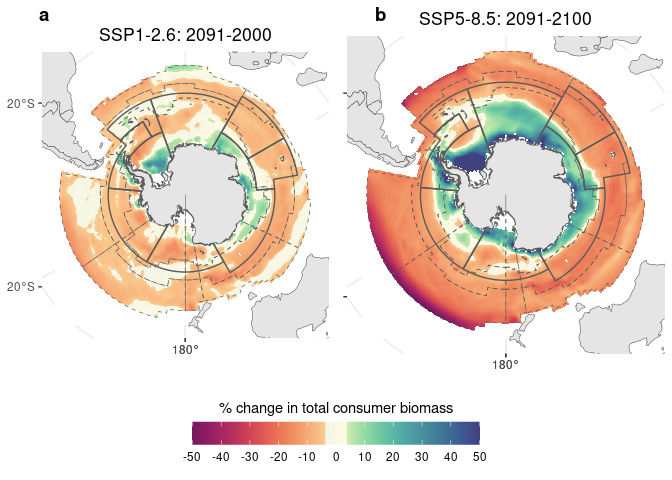
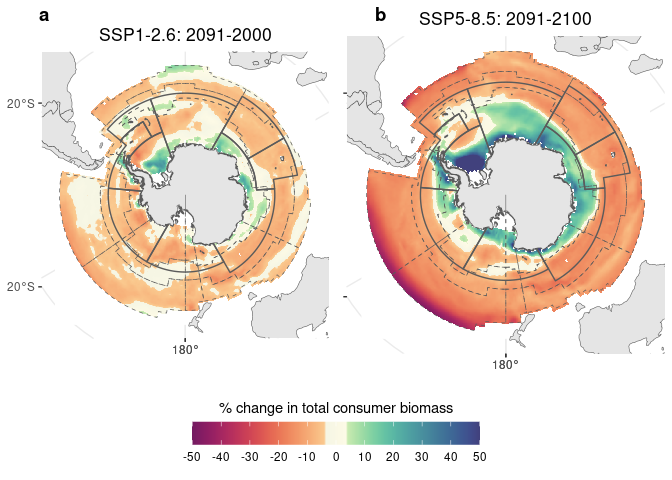
saving different versions of individual plots for further processing

diff --git a/scripts/Fig2_Mapping_changes_SO.md b/scripts/Fig2_Mapping_changes_SO.md
@@ -111,7 +111,7 @@ global_files <- list.files(base_folder, full.names = T, recursive = T) |>
   str_subset("apecosm_ipsl|boats|dbpm_ipsl|ecotroph|macroecological|zoomss") |> 
   str_subset("nat_default") |> 
   #Removing "picontrol" experiment
-  str_subset("picontrol", negate = T)
+  str_subset("picontrol|regridded", negate = T)
 ```
 
 ## Calculating percentage change in fish biomass estimates from global FishMIP models
@@ -144,13 +144,16 @@ for(f in global_files){
     group_by(lat, lon, group) |> 
     summarise(mean_bio = mean(tcb, na.rm = T)) |> 
     ungroup() |> 
-    #Add scenario to data frame
-    mutate(scenario = scenario,
-           #Add name of model
-           mem = mem) |> 
+    #Add name of model
+    mutate(mem = mem) |> 
     #Split ecosystem model name from ESM name
     separate_wider_delim(mem, delim = "_", names = c("mem", "esm"))
     
+  if(str_detect(mem, "dbpm|zoomss_ipsl")){
+    df <- df |> 
+      #Move grid by 0.5 degrees in DBPM and ZOOMSS datasets
+      mutate(lon = lon+0.5)
+  }
   
   #Path to save file
   f_out <- file.path(out_folder,
@@ -173,8 +176,6 @@ global_files <- list.files(out_folder, "gridded_mean",
 #Getting a list of models
 members <- basename(global_files) |> 
   str_extract("^(.*)_gridded", group = 1) |> 
-  #Excluding DBPM and ZOOMS IPSL because of different grid
-  str_subset("dbpm|zoomss_ipsl", negate = T) |> 
   unique()
 
 #Loading data for each model
@@ -358,7 +359,7 @@ all_plots <- plot_grid(plot_grid(p00_126, p00_585, ncol = 2, nrow = 1,
 all_plots
 ```
 
-![](02_Mapping_changes_SO_files/figure-commonmark/unnamed-chunk-11-1.png)
+![](Fig2_Mapping_changes_SO_files/figure-commonmark/unnamed-chunk-11-1.png)
 
 We can save the plot as a pdf.
 
@@ -366,4 +367,53 @@ We can save the plot as a pdf.
 # Saving multi-panel plot
 ggsave(file.path(out_folder, "so_perc_change_map_00s_ccamlr.pdf"), 
        device = "pdf", width = 9, height = 5)
+```
+
+We can also save individual plots, but we will change their layout a
+little before saving them as images and `R` objects.
+
+``` r
+#Defining ggplot recipe to standardise legend
+leg_gg <- list(
+  guides(fill = guide_colorbar(title = "% change in total consumer biomass",
+                               title.position = "left", title.hjust = 0.5, 
+                               barheight = 15)),
+  theme(legend.position = "right", legend.title = element_text(angle = 90), 
+        legend.text = element_text(angle = 90, hjust = 0.5, vjust = 0.25),
+        plot.title = element_blank(), 
+        panel.border = element_rect(colour = "grey20")))
+
+#Applying ggplot recipe and saving plots
+p00_126 <- p00_126+
+  leg_gg
+
+#Get legend
+leg_vert <- get_legend(p00_126)
+
+#Removing legend before saving
+p00_126 <- p00_126+
+  theme(legend.position = "none")
+
+#Saving plot as image
+ggsave(file.path(out_folder, "so_perc_change_map_00-126_ccamlr.pdf"), p00_126,
+       device = "pdf")
+#Saving plot as r object for further processing
+saveRDS(plot_grid(p00_126), 
+        file.path(out_folder, "so_perc_change_map_00-126_ccamlr.rds"))
+
+#Saving legend
+saveRDS(leg_vert, 
+        file.path(out_folder, "so_perc_change_map_00s_ccamlr_leg.rds"))
+
+#Applying recipe
+p00_585 <- p00_585+
+  leg_gg+
+  theme(legend.position = "none", axis.text.y = element_text())
+
+#Saving plot as image
+ggsave(file.path(out_folder, "so_perc_change_map_00-585_ccamlr.pdf"), p00_585,
+       device = "pdf")
+#Saving plot as r object for further processing
+saveRDS(plot_grid(p00_585), 
+        file.path(out_folder, "so_perc_change_map_00-585_ccamlr.rds"))
 ```
